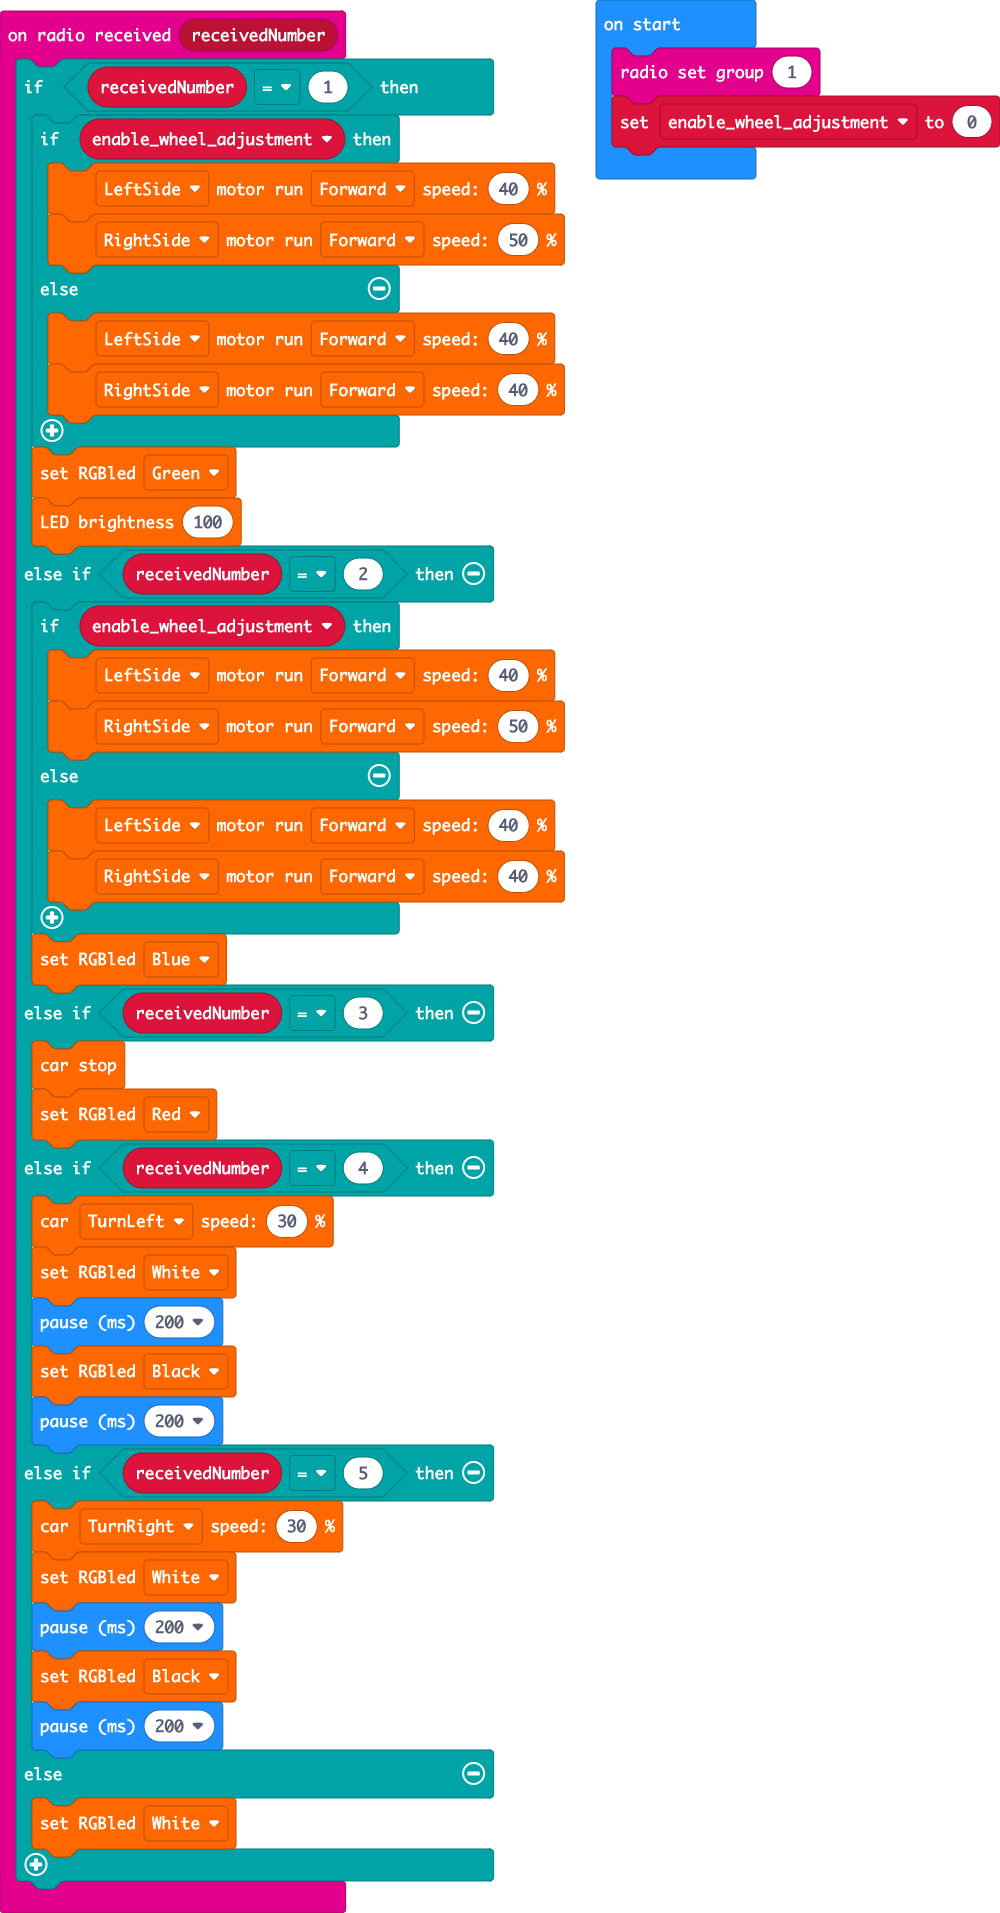
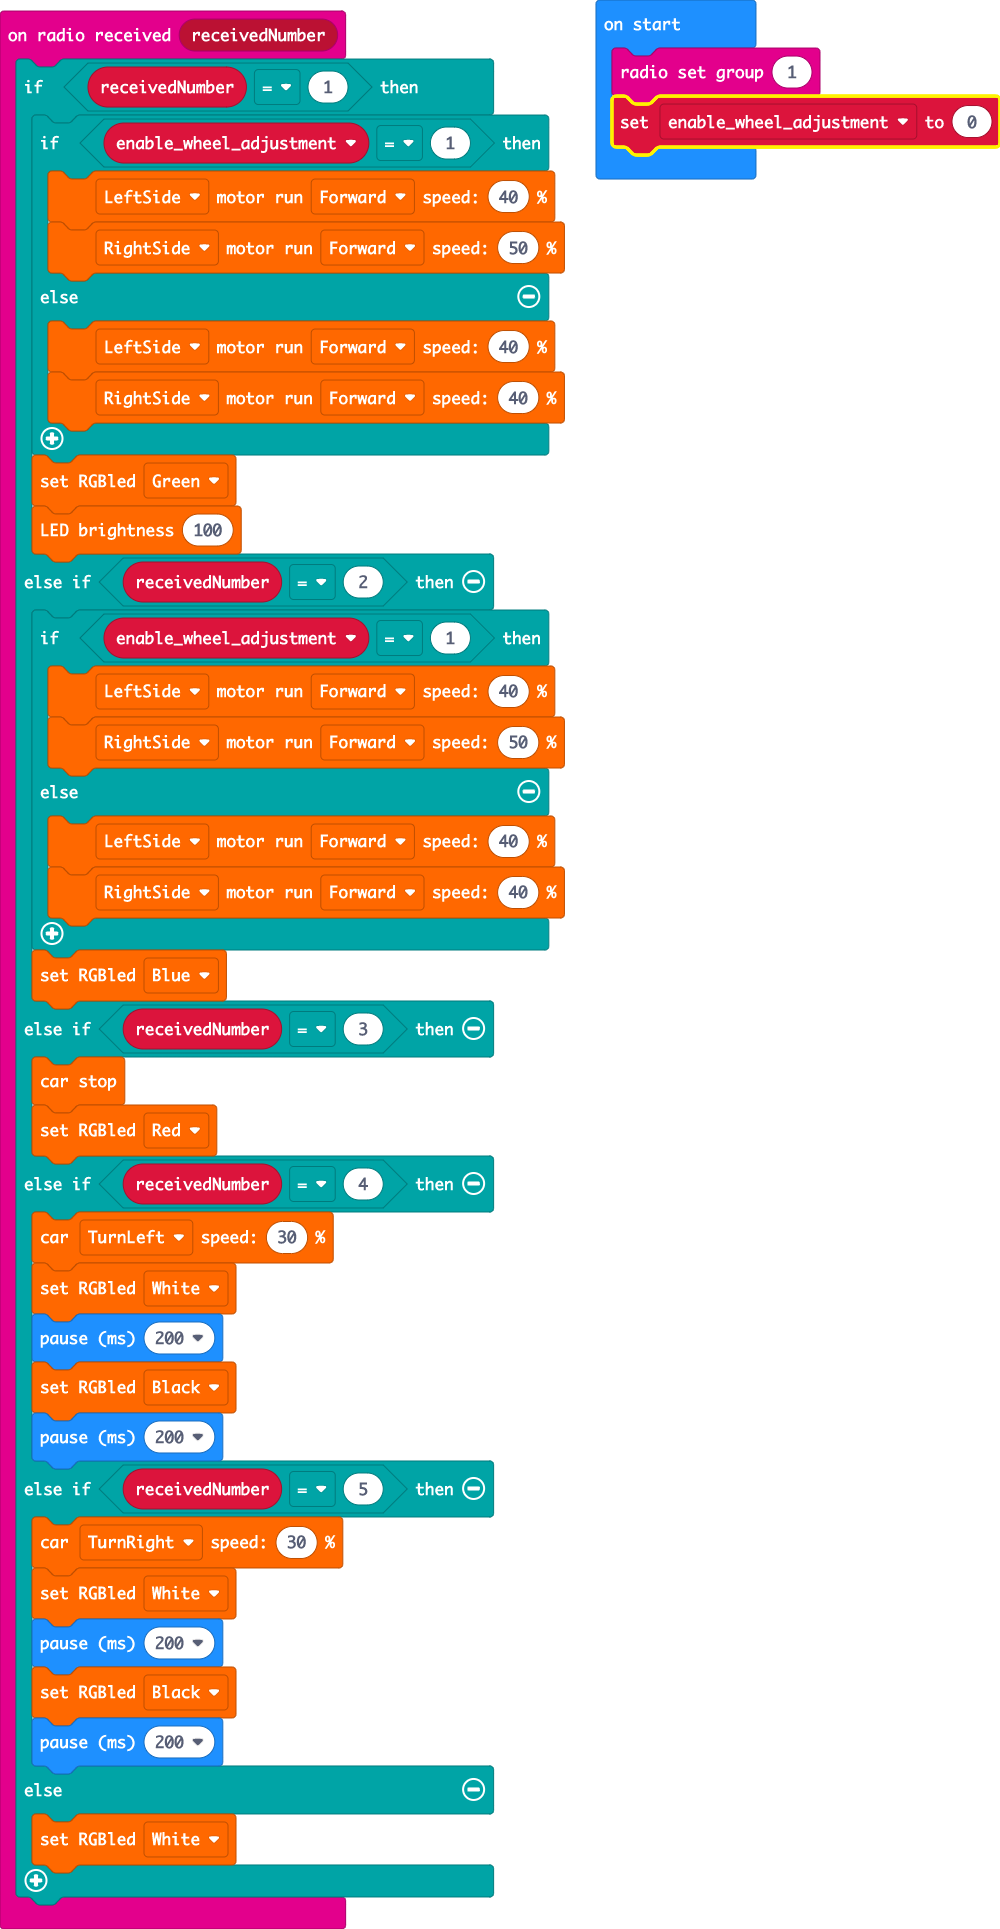
fixed alignment issue

Changed region(s): [[0.031, 0.0308, 0.558, 0.9869], [0.62, 0.0308, 1.0, 0.0925], [0.465, 0.9252, 0.496, 0.9561]]

diff --git a/main.ts b/main.ts
@@ -1,6 +1,6 @@
 radio.onReceivedNumber(function (receivedNumber) {
     if (receivedNumber == 1) {
-        if (enable_wheel_adjustment) {
+        if (enable_wheel_adjustment == 1) {
             kBit.motor(KBitMotorObs.LeftSide, KBitMotorDir.Forward, 40)
             kBit.motor(KBitMotorObs.RightSide, KBitMotorDir.Forward, 50)
         } else {
@@ -10,7 +10,7 @@ radio.onReceivedNumber(function (receivedNumber) {
         kBit.led(KBitColor.Green)
         kBit.ledBrightness(100)
     } else if (receivedNumber == 2) {
-        if (enable_wheel_adjustment) {
+        if (enable_wheel_adjustment == 1) {
             kBit.motor(KBitMotorObs.LeftSide, KBitMotorDir.Forward, 40)
             kBit.motor(KBitMotorObs.RightSide, KBitMotorDir.Forward, 50)
         } else {
